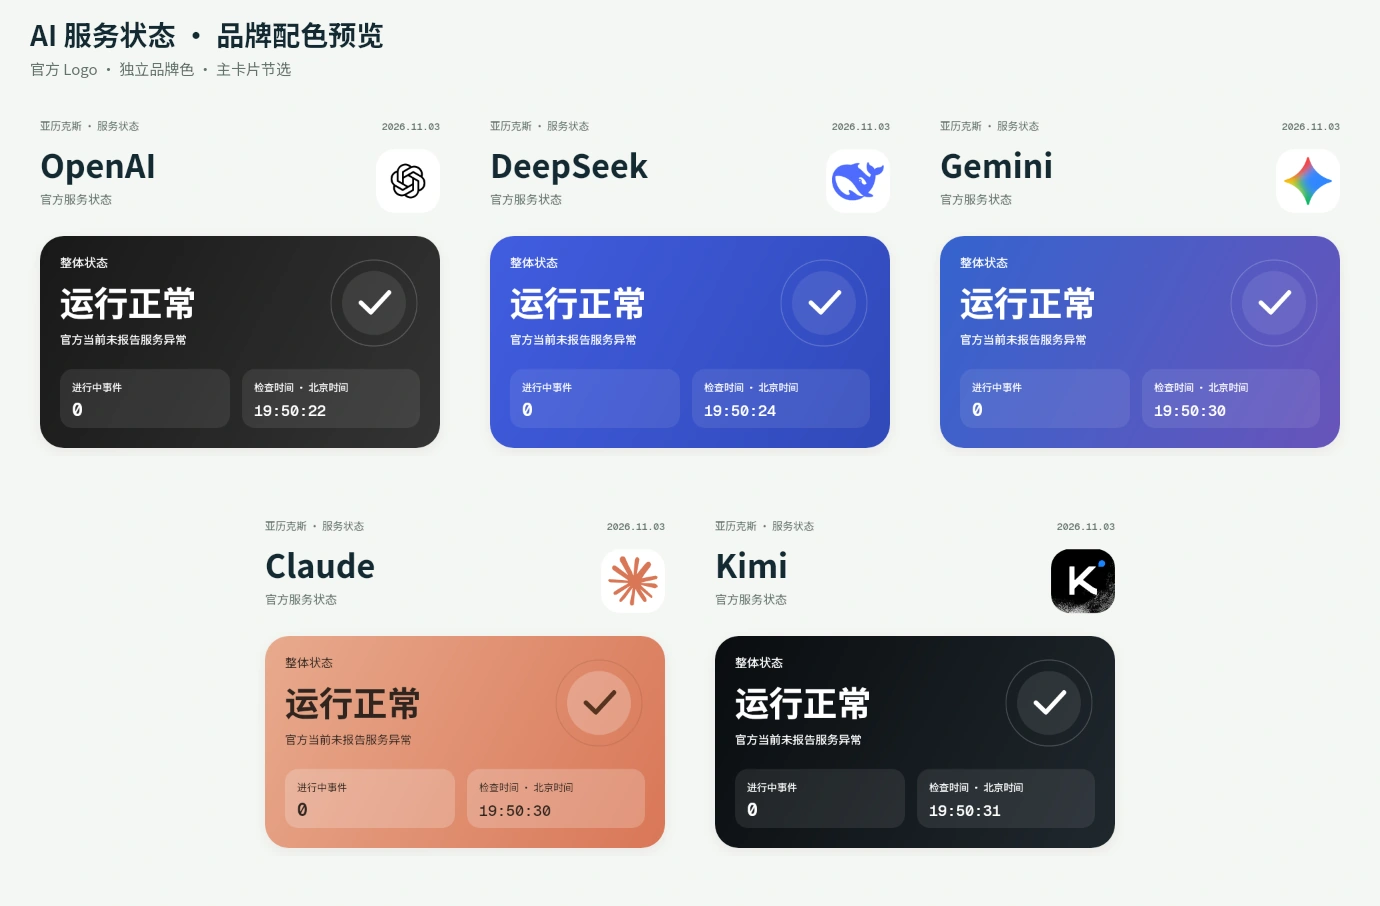
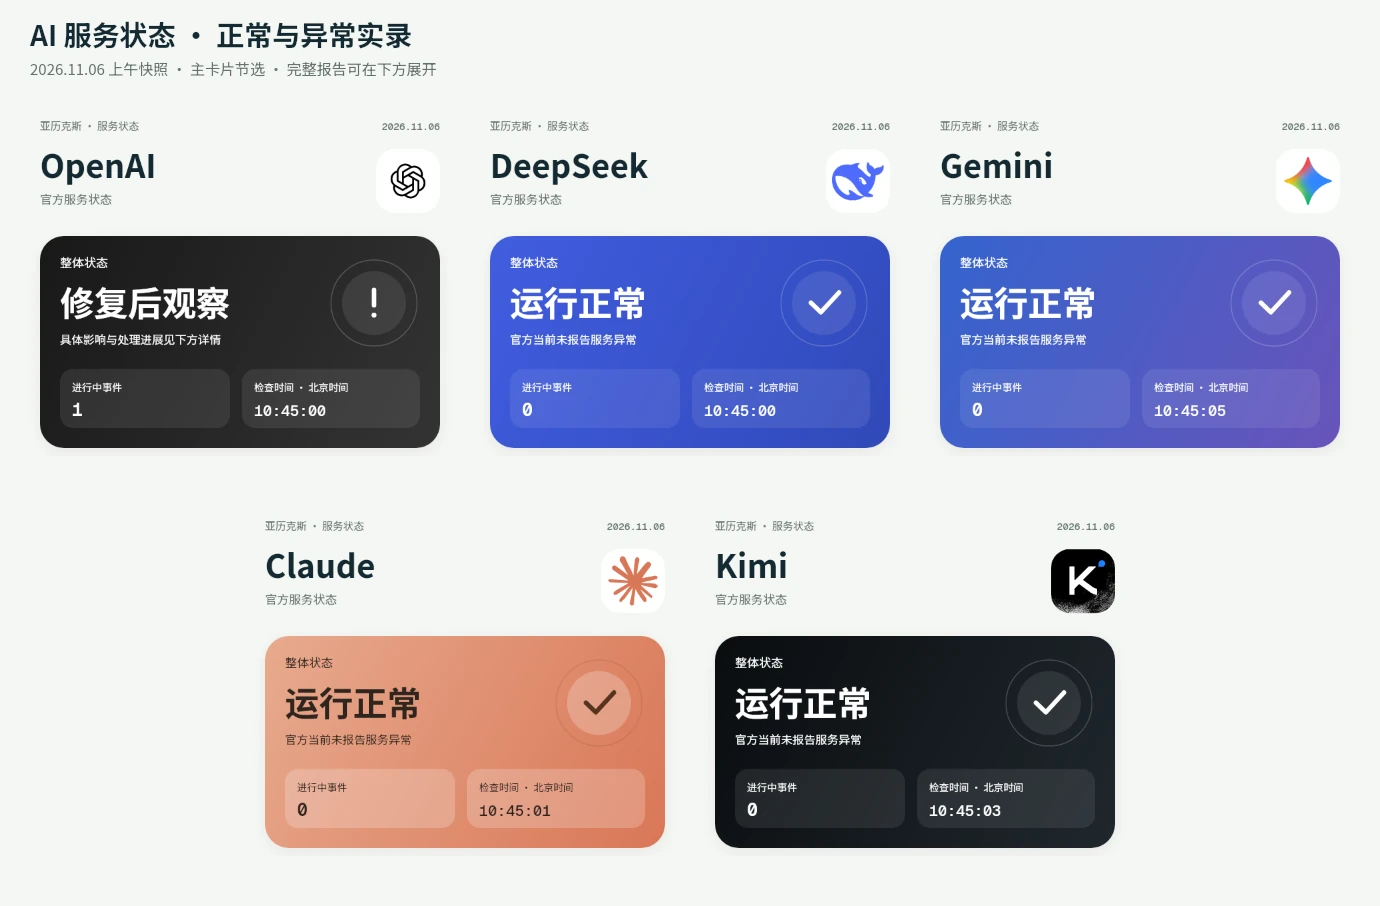
docs: add expandable previews and verified OpenAI incident sample

diff --git a/scripts/export_public_readme.py b/scripts/export_public_readme.py
@@ -13,7 +13,13 @@ ASSETS = (
     'docs/images/weather.webp',
     'docs/images/weather-summary.webp',
     'docs/images/forecast-video.webp',
+    'docs/images/forecast-video.gif',
     'docs/images/providers.webp',
+    'docs/images/provider-openai.webp',
+    'docs/images/provider-deepseek.webp',
+    'docs/images/provider-gemini.webp',
+    'docs/images/provider-claude.webp',
+    'docs/images/provider-kimi.webp',
     'docs/images/console.webp',
     'docs/images/help.webp',
     'docs/public-assets.md',

diff --git a/README.md b/README.md
@@ -25,15 +25,27 @@
 详细规则见[评分规则](codex-qq-plugin/docs/outdoor-index.md)。
 <!-- public-readme:private:end -->
 
-<a href="docs/images/weather.webp"><img src="docs/images/weather-summary.webp" width="640" alt="广州天气摘要：温度范围、降水、风、湿度与户外指数"></a>
+<img src="docs/images/weather-summary.webp" width="640" alt="广州天气摘要：温度范围、降水、风、湿度与户外指数">
 
-[查看完整天气图](docs/images/weather.webp)
+<details>
+<summary>展开查看完整天气图与逐小时曲线</summary>
+
+<img src="docs/images/weather.webp" width="960" alt="完整广州两日天气图，含温度、PM2.5、降水与云量曲线">
+
+</details>
 
 ### 24 / 48 小时动态预报
 
 在 QQ 中直接播放视频，地图上显示地名、预报类型、色阶和时间轴。云量、温度、降水优先使用 ECMWF IFS；PM2.5 使用 ECMWF/CAMS。预报云图与历史卫星观测分开查询。
 
-<img src="docs/images/forecast-video.webp" width="640" alt="广东降水预报视频实帧，显示地市边界、水域和北京时间轴">
+<img src="docs/images/forecast-video.gif" width="640" alt="广东 24 小时降水预报动态预览，随时间轴播放完整视频时段">
+
+<details>
+<summary>展开查看清晰原帧</summary>
+
+<img src="docs/images/forecast-video.webp" width="1080" alt="广东降水预报视频的完整原帧，显示地市边界、水域、色阶和北京时间轴">
+
+</details>
 
 ### AI 服务状态
 
@@ -41,11 +53,55 @@
 
 <img src="docs/images/providers.webp" width="960" alt="OpenAI、DeepSeek、Gemini、Claude、Kimi 五家服务状态卡片节选">
 
+以下为 **2026-11-06 上午的官方状态快照**。OpenAI 展示当天的真实故障：ChatGPT Work、Dots 与 Codex Web 受影响，已采取缓解措施、正在观察恢复；[官方事件记录](https://status.openai.com/incidents/01M6P50GPP1V98EF8MJ9SH393R)。图片不代表阅读时的实时状态。
+
+<details>
+<summary>展开 OpenAI：服务异常与处理进展</summary>
+
+<img src="docs/images/provider-openai.webp" width="800" alt="OpenAI 完整故障报告：受影响服务、错误率升高说明及修复后观察进展">
+
+</details>
+
+<details>
+<summary>展开 DeepSeek 完整状态图</summary>
+
+<img src="docs/images/provider-deepseek.webp" width="800" alt="DeepSeek 完整服务状态图">
+
+</details>
+
+<details>
+<summary>展开 Gemini 完整状态图</summary>
+
+<img src="docs/images/provider-gemini.webp" width="800" alt="Gemini 完整服务状态图">
+
+</details>
+
+<details>
+<summary>展开 Claude 完整状态图</summary>
+
+<img src="docs/images/provider-claude.webp" width="800" alt="Claude 完整服务状态图">
+
+</details>
+
+<details>
+<summary>展开 Kimi 完整状态图</summary>
+
+<img src="docs/images/provider-kimi.webp" width="800" alt="Kimi 完整服务状态图">
+
+</details>
+
 ### 控制台
 
 选择群聊即可修改功能与定时推送；在任意页面增删改唤醒词都会同步到全局，各群独立选择启用哪些词。
 
 <img src="docs/images/console.webp" width="1040" alt="控制台演示：群功能分栏、独立开关和两个 07:30 定时订阅">
+
+<details>
+<summary>展开查看完整控制台</summary>
+
+<img src="docs/images/console.webp" width="1440" alt="完整控制台演示，含逐群功能、唤醒词和定时推送配置">
+
+</details>
 
 <details>
 <summary>展开查看自动生成的帮助图</summary>

diff --git a/docs/public-assets.md b/docs/public-assets.md
@@ -4,13 +4,17 @@
 
 | 展示图 | 样例说明 |
 | --- | --- |
-| 广州天气 | 2026-11-03 两日天气与户外指数；首页展示摘要，可点击查看完整曲线 |
-| 广东降水视频帧 | 2026-11-04 生成的预报视频实帧，具体有效时间见画面 |
-| 五家 AI 服务状态 | 2026-11-03 查询结果的主卡片节选 |
+| 广州天气 | 2026-11-03 两日天气与户外指数；摘要下可直接展开完整曲线 |
+| 广东降水 GIF 与原帧 | 2026-11-04 生成的实际预报视频；GIF 保留整个视频时段，具体有效时间见画面，可展开清晰原帧 |
+| 五家 AI 服务状态 | 2026-11-06 10:45（北京时间）官方查询快照；主卡片节选下可逐家展开完整报告 |
 | 控制台、帮助图 | 演示群名与开关配置，不含真实成员或账户凭据 |
 
 天气与空气数据来自 [ECMWF](https://www.ecmwf.int/)、[CAMS](https://atmosphere.copernicus.eu/) 与 [Open-Meteo](https://open-meteo.com/)。视频底图所用资料包括 [Natural Earth](https://www.naturalearthdata.com/about/terms-of-use/)、[geoBoundaries](https://www.geoboundaries.org/)、[CTAmap / cn-atlas](https://github.com/BarbarossaWang/cn-atlas) 及相关政府地图资料。
 
 状态卡中的品牌标志来自对应提供商的官方网站或官方状态页，仅用于识别所查询的服务：OpenAI、DeepSeek、Gemini、Claude、Kimi。
+
+OpenAI 异常样例依据 [ChatGPT Work and Dots Errors 官方事件](https://status.openai.com/incidents/01M6P50GPP1V98EF8MJ9SH393R)及[官方状态接口](https://status.openai.com/api/v2/summary.json)。受影响服务为 ChatGPT Work、Dots 与 Codex Web；11 月 6 日 01:05（北京时间）官方更新为采取缓解措施后观察恢复。接口未列出受影响组件，展示样例按事件页面补全，其他服务仍保留接口返回的状态。该图记录采集时的情况，不表示全部 OpenAI API 中断，也不表示阅读时仍有故障。
+
+其他服务快照来自 [DeepSeek](https://status.deepseek.com/)、[Gemini](https://aistudio.google.com/status)、[Claude](https://status.claude.com/) 和 [Kimi](https://status.moonshot.cn/) 的官方状态页。
 
 数字字体使用 [Geist Mono](https://github.com/google/fonts/tree/main/ofl/geistmono)，遵循 SIL Open Font License 1.1。中文使用运行主机字体。天气版式、天气摘要图形、户外指数手写字和机器人形象使用项目维护者提供或定制的素材。

diff --git a/docs/images/README.md b/docs/images/README.md
@@ -5,9 +5,13 @@
 | 文件 | 来源 |
 | --- | --- |
 | `weather.webp`、`weather-summary.webp` | 2026-11-03 广州天气正式版渲染；摘要仅裁去下方曲线，完整图保留全部内容 |
-| `forecast-video.webp` | 2026-11-04 发布验证的广东降水原始格点视频实帧，时轴见图内 |
-| `providers.webp` | 2026-11-03 五家官方状态查询卡片的主卡片节选 |
+| `forecast-video.gif`、`forecast-video.webp` | 2026-11-04 发布验证的广东降水原始格点视频；GIF 为完整时段预览，WebP 为清晰原帧，时轴见图内 |
+| `providers.webp`、`provider-*.webp` | 2026-11-06 10:45（北京时间）五家官方状态快照；分别保存主卡片节选与可展开完整图 |
 | `console.webp` | 当前控制台，使用隔离演示数据；不含实际群身份、成员或凭据 |
 | `help.webp` | 当前帮助渲染器，按演示群启用的功能与唤醒词生成 |
 
-图片以 WebP 保存。字体、天气素材和厂商标志的来源见主服务 `public/` 对应素材目录；视频图源见 `data/` 中的 NOTICE。
[1 lines of base64/hex data omitted]
+
+OpenAI 故障详情依据[官方事件页](https://status.openai.com/incidents/01M6P50GPP1V98EF8MJ9SH393R)补全受影响组件，保留接口对其他服务的返回值。原始查询、展示输入、渲染脚本与核验记录位于本机 `test-output/readme-gif/`。公开来源说明见 `docs/public-assets.md`。
+
+字体、天气素材和厂商标志的来源见主服务 `public/` 对应素材目录；视频图源见 `data/` 中的 NOTICE。

diff --git a/AGENTS.md b/AGENTS.md
@@ -7,7 +7,8 @@
 ## 公开 README 同步
 
 - 2026-11-06 用户持续授权：`Alexx-Powered/alex-bot-public` 作为公开功能展示仓库，今后每次主仓库更新都同步 README 与其展示图片。正文以根 `README.md` 为唯一来源，由 `scripts/export_public_readme.py` 移除明确标记的内部段落，按固定清单导出素材；不能直接推送私有仓库的 Git 历史或完整工作区。
-- 私有 `main` 的 GitHub Actions 自动完成同步。改动 README、展示图或导出逻辑时运行导出测试、检查公开版链接，并在获准推送主仓库后核对同步任务和公开仓库文件。此授权覆盖公开展示同步，不改变其他开发任务对主仓库推送的原有要求；仅本地开发或 ECS 部署不触发 GitHub 更新。
+- 私有 `main` 的 GitHub Actions 自动完成同步。用户已持续授权今后 README、展示图片 / GIF 及相关同步逻辑的更新一并推送主仓库、同步公开仓库，无需重复询问。发布前运行导出测试、检查公开版链接；发布后核对同步任务和公开仓库文件。此授权不包含无关开发改动；其他任务仍遵循原有 GitHub 推送要求，仅本地开发或 ECS 部署不触发 GitHub 更新。
+- 所有摘要、节选或缩略展示图都须在 README 内提供 `<details>` 展开的完整图，不用额外链接跳转代替。动态天气提供 GIF 预览。服务状态故障样例须有官方事件依据、采集日期、具体影响和处理阶段，不将历史快照冒充实时状态。
 
 ## 地图国界与行政区标注
 

diff --git a/.github/README.md b/.github/README.md
@@ -11,7 +11,7 @@ python -m unittest discover -s scripts/tests -p test_public_readme.py
 python scripts/export_public_readme.py --output codex-qq-plugin/test-output/public-readme-preview
 ```
 
-输出目录须为空。同步后的 `.public-readme-sync.json` 记录导出文件的 SHA256，可用于远端回读。无内容变化时不创建空提交。
+输出目录须为空。同步后的 `.public-readme-sync.json` 记录导出文件的 SHA256，可用于远端回读。工作流严格按这份清单暂存文件，WebP、GIF 及展开后的完整图走同一同步流程。无内容变化时不创建空提交。
 
 认证使用仅登记在目标仓库上的可写 deploy key；私钥保存在源仓库 Actions secret `ALEX_BOT_PUBLIC_DEPLOY_KEY`。主工作流的 `GITHUB_TOKEN` 只有源仓库读取权限，checkout 禁止持久保存凭据。SSH 主机公钥来自 GitHub `/meta`，固定在 `github-known-hosts`。部署密钥的权限依据见 [GitHub 官方说明](https://docs.github.com/en/authentication/connecting-to-github-with-ssh/managing-deploy-keys)。
 
